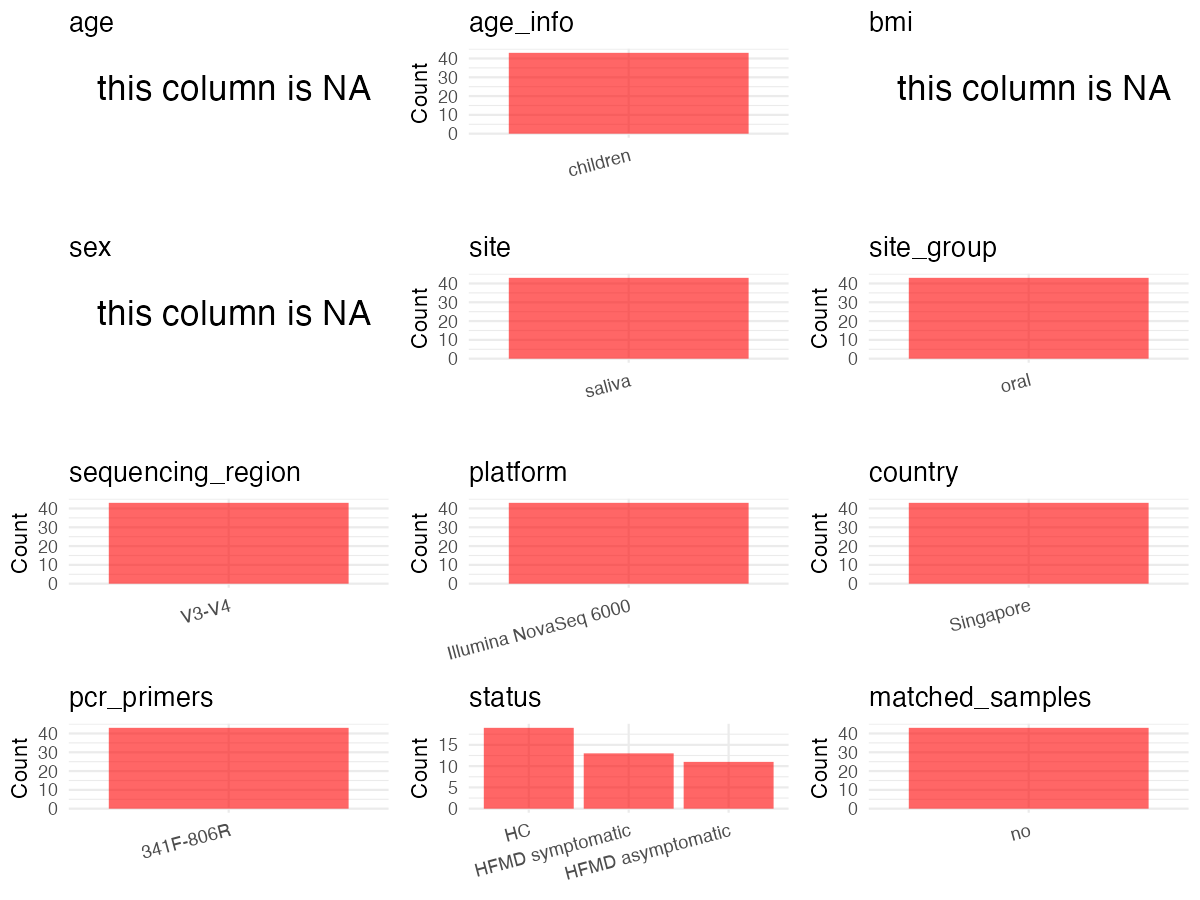
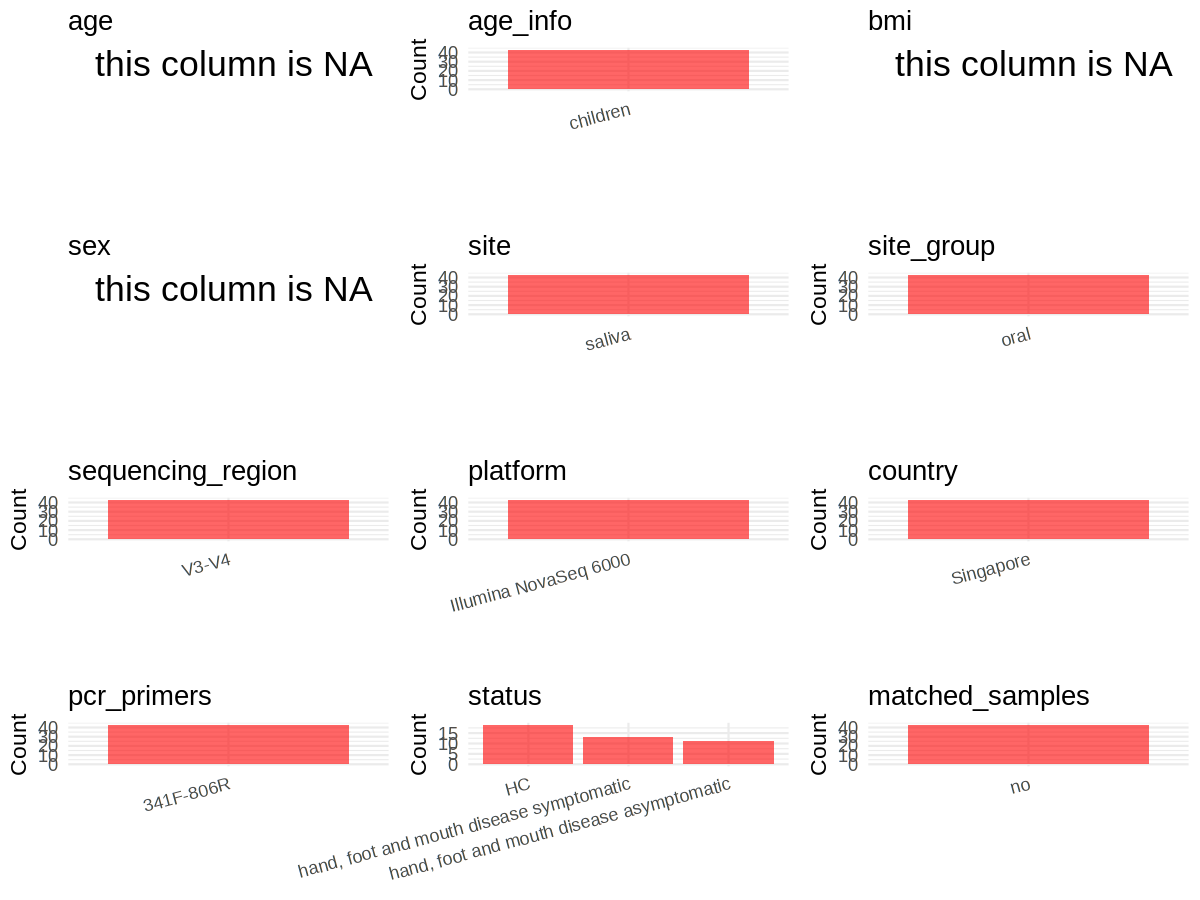
Update PRJNA663926 metadata curation files

diff --git a/data/projects/PRJNA663926/metadata_curation.md b/data/projects/PRJNA663926/metadata_curation.md
@@ -13,7 +13,7 @@ optionally merges supplement tables.
 # age           : Not available in SRA metadata
 # age_info      : "children" — paper describes paediatric participants (childcare centres)
 # sex           : Not available in SRA metadata
-# status        : Derived from biological_replicates column; Healthy->HC, Symptomatic->HFMD symptomatic, Asymptomatic->HFMD asymptomatic
+# status        : Derived from biological_replicates column; Healthy->HC, Symptomatic->hand, foot and mouth disease symptomatic, Asymptomatic->hand, foot and mouth disease asymptomatic
 # platform      : Paper Methods — Illumina NovaSeq 6000 (16S rRNA sequencing on NovaSeq6000)
 # region        : Paper Methods — V3-V4 (primers 341F/806R)
 # pcr_primers   : Paper Methods — 341F-806R
@@ -34,7 +34,7 @@ library(cowplot)
 # EDIT HERE: change project_id for each study
 project_id <- "PRJNA663926"
 
-base_dir <- "/Users/dongbiao/Documents/软件开发/oral/metadata_collect"
+base_dir <- "/home/dongbiao/word_embedding_microbiome/all_data/oral/global-oral-microbiome/data/projects"
 setwd(file.path(base_dir, project_id))
 
 # (2) Loading raw SRA metadata file
@@ -161,18 +161,18 @@ cat("Remaining samples after Step 2:", nrow(initial_meta), "\n")
 This step converts the raw SRA table into the standard metadata format
 used in our meta-analysis. The uniform metadata should include the
 following columns: 1. **bioproject**: Project ID from SRA or other
-database e.g. `PRJNA1234`, `CNP1234`, ‘OEP1234’, ‘qiita_1234’ 2.
-**sample_id**: SRA sample/run ID. Unique id for each sample!
+database e.g. `PRJNA1234`, `CNP1234`, ‘OEP1234’, ‘qiita\_1234’ 2.
+**sample\_id**: SRA sample/run ID. Unique id for each sample!
 e.g. `DRR1234567`, `ERR1234567` and `SRR1234567`. If no such column
-exists, can use column like sample_name. 3. **subject_id**: subject id
+exists, can use column like sample\_name. 3. **subject\_id**: subject id
 for each person if available. e.g. `patient_01`, `Host_03_before`,
 `subject12` 4. **age**: Age of the subject if available. e.g. `35`, `42`
-\| not `adult`, `chilren` 5. **age_info**: If the age is not explicitly
+\| not `adult`, `chilren` 5. **age\_info**: If the age is not explicitly
 stated but approximate age range information is available, mark it in
 this column. e.g., `18-55`, `children`, `infant`, `elder` 6. **bmi**:
 Body Mass Index if available. e.g. `22.5`, `18.9` \| not `normal`,
 `overweight` 7. **sex**: Sex of the subject. Mandatory to write as M/F
-\| not `female`, `woman` 8. **sequencing_region**: Targeted 16S rRNA
+\| not `female`, `woman` 8. **sequencing\_region**: Targeted 16S rRNA
 region. e.g. `V3-V4`, `V4` 9. **platform**: Sequencing platform.
 e.g. `Illumina MiSeq`, `454 GS FLX Titanium`, `Ion Torrent` 10.
 **country**: Country of sample origin. e.g. `China`, `Japan` \| not city
@@ -181,11 +181,11 @@ specify the exact sites as detailed as possible. For example, if it is
 known to be supragingival plaque, do not record it as ‘dental plaque’,
 unless the original text provides only a vague description.
 e.g. `saliva`, `tongue coating` \| not broad term like `oral` 12.
-**site_group**: only accepts one of following three values: ‘oral’,
-‘gut’, or ‘other’. 13. **public_time**: Data release date.
-e.g. `2021-06-22` \| not `June 2021` 14. **pcr_primers**: PCR primers
+**site\_group**: only accepts one of following three values: ‘oral’,
+‘gut’, or ‘other’. 13. **public\_time**: Data release date.
+e.g. `2021-06-22` \| not `June 2021` 14. **pcr\_primers**: PCR primers
 used. e.g. `515F-806R`, `27F-338R` \| not primer sequences 15.
-**title**: Title of the associated publication. 16. **disease_study**:
+**title**: Title of the associated publication. 16. **disease\_study**:
 Whether the study involves disease samples. If it’s not clear, can
 record as NA. Only three values accepted: ‘yes’, ‘no’ or NA 17.
 **status**: Disease status for each sample if available, else record as
@@ -193,9 +193,9 @@ NA. Only accept following abbreviations, Write full names for all other
 diseases. HC: healthy control CD: Crohn’s disease CRC: colorectal cancer
 COPD: chronic obstructive pulmonary disease HIV: human immunodeficiency
 virus ICU: intensive care unit OSCC: oral squamous cell carcinoma RA:
-rheumatoid arthritis UC: ulcerative colitis 18. **matched_samples**:
+rheumatoid arthritis UC: ulcerative colitis 18. **matched\_samples**:
 Whether the subject has matched samples. Only accept ‘yes’ or ‘no’. 19.
-**is_time_series**: Whether the study is a time series study. Only
+**is\_time\_series**: Whether the study is a time series study. Only
 accept ‘yes’ or ‘no’.
 
 ``` r
@@ -237,8 +237,8 @@ columns.
 # In this part, you need to customize the code based on the situation of the raw_ columns to obtain the content of the target columns. IMPORTANT: Add comments if the modification is not straightforward!!
 metadata <- metadata %>%
   mutate(status = case_when(
-    grepl("Asymptomatic", raw_status) ~ "HFMD asymptomatic",  # checked before "Symptomatic" to avoid substring match
-    grepl("Symptomatic", raw_status) ~ "HFMD symptomatic",
+    grepl("Asymptomatic", raw_status) ~ "hand, foot and mouth disease asymptomatic",  # checked before "Symptomatic" to avoid substring match
+    grepl("Symptomatic", raw_status) ~ "hand, foot and mouth disease symptomatic",
     grepl("Healthy", raw_status) ~ "HC",
     TRUE ~ NA_character_
   ))  # Derived from biological_replicates column; "Asymptomatic" checked first as it contains "symptomatic"
